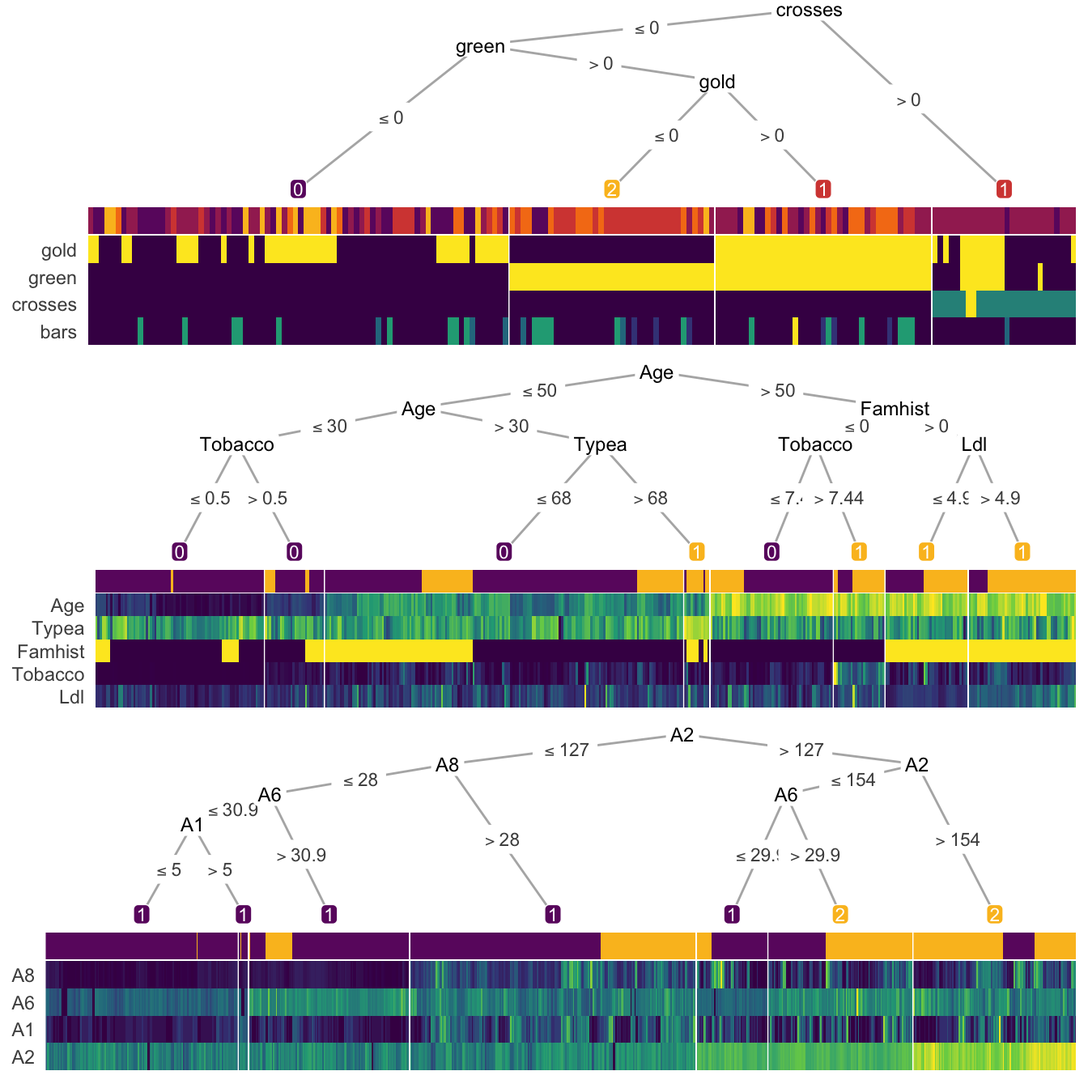
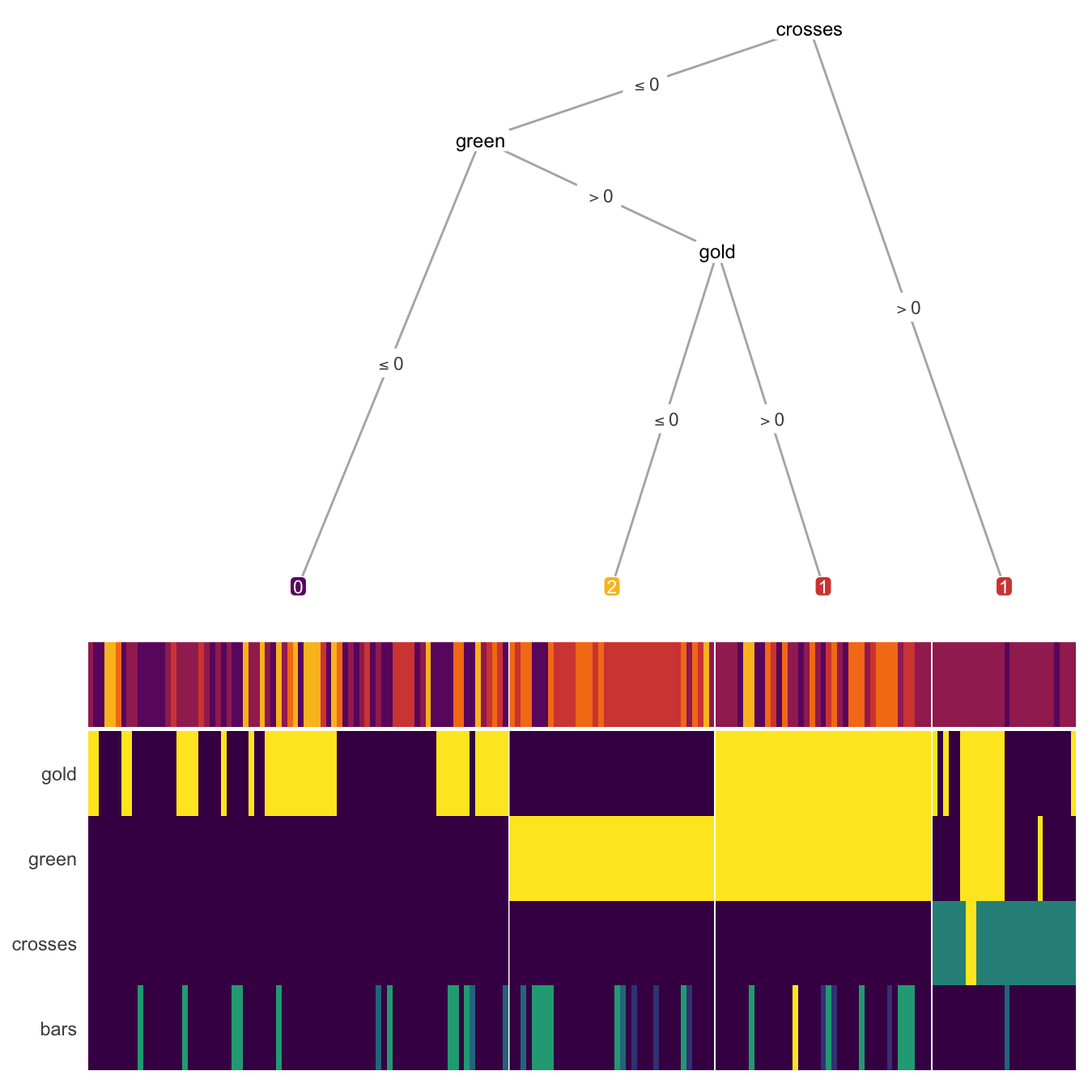
deploy: f9a4d122292717f82d7254e71221e574ecf3f56c

diff --git a/articles/explore.html b/articles/explore.html
@@ -85,7 +85,7 @@
 </h1>
                         <h4 class="author">Trang Le</h4>
             
-            <h4 class="date">2020-05-21</h4>
+            <h4 class="date">2020-05-22</h4>
       
       
       <div class="hidden name"><code>explore.Rmd</code></div>
@@ -103,20 +103,14 @@
 <a href="#lets-begin" class="anchor"></a>Let’s begin</h2>
 <p>with the iris dataset! Running the <code><a href="https://rdrr.io/pkg/treeheatr/man/heat_tree.html">heat_tree()</a></code> function can be as simple as:</p>
 <div class="sourceCode" id="cb2"><html><body><pre class="r"><span class="no">dat_raw</span> <span class="kw">&lt;-</span> <span class="no">iris</span>
-<span class="fu"><a href="https://rdrr.io/pkg/treeheatr/man/heat_tree.html">heat_tree</a></span>(<span class="no">dat_raw</span>, <span class="kw">target_lab</span> <span class="kw">=</span> <span class="st">'Species'</span>) <span class="kw">%&gt;%</span>
-  <span class="kw pkg">grid</span><span class="kw ns">::</span><span class="fu"><a href="https://rdrr.io/r/grid/grid.draw.html">grid.draw</a></span>()
-<span class="co">#&gt; Warning in `[&lt;-.factor`(`*tmp*`, list, value = 0): invalid factor level, NA</span>
-<span class="co">#&gt; generated</span></pre></body></html></div>
+<span class="fu"><a href="https://rdrr.io/pkg/treeheatr/man/heat_tree.html">heat_tree</a></span>(<span class="no">dat_raw</span>, <span class="kw">target_lab</span> <span class="kw">=</span> <span class="st">'Species'</span>)</pre></body></html></div>
 <p><img src="explore_files/figure-html/unnamed-chunk-2-1.png" width="480"></p>
 <p>But we can adjust a few graphical parameters. We can also add a custom layout for a subset of the nodes by specifying it in the <code>custom_layout</code> parameter. And we can relax the p value threshold <code>p_thres</code> to include more features that might be less important in classifying the samples but still included in the decision tree, or set <code>show_all_feats = TRUE</code> to include all features, even the ones that were not used to build the tree.</p>
 <div class="sourceCode" id="cb3"><html><body><pre class="r"><span class="fu"><a href="https://rdrr.io/pkg/treeheatr/man/heat_tree.html">heat_tree</a></span>(
   <span class="no">dat_raw</span>, <span class="kw">target_lab</span> <span class="kw">=</span> <span class="st">'Species'</span>,
   <span class="kw">target_cols</span> <span class="kw">=</span> <span class="fu">scale_fill_manual</span>(<span class="kw">values</span> <span class="kw">=</span> <span class="fu"><a href="https://rdrr.io/r/base/c.html">c</a></span>(<span class="st">"#E69F00"</span>, <span class="st">"#56B4E9"</span>, <span class="st">"#009E73"</span>)),
   <span class="kw">custom_layout</span> <span class="kw">=</span> <span class="fu"><a href="https://rdrr.io/r/base/data.frame.html">data.frame</a></span>(<span class="kw">id</span> <span class="kw">=</span> <span class="fl">1</span>, <span class="kw">x</span> <span class="kw">=</span> <span class="fl">0.1</span>, <span class="kw">y</span> <span class="kw">=</span> <span class="fl">1</span>), <span class="kw">show_all_feats</span> <span class="kw">=</span> <span class="fl">TRUE</span>,
-  <span class="kw">panel_space</span> <span class="kw">=</span> <span class="fl">0.05</span>, <span class="kw">target_space</span> <span class="kw">=</span> <span class="fl">0.2</span>, <span class="kw">tree_space_bottom</span> <span class="kw">=</span> <span class="fl">0.1</span>, <span class="kw">heat_rel_height</span> <span class="kw">=</span> <span class="fl">0.4</span>) <span class="kw">%&gt;%</span>
-  <span class="kw pkg">grid</span><span class="kw ns">::</span><span class="fu"><a href="https://rdrr.io/r/grid/grid.draw.html">grid.draw</a></span>()
-<span class="co">#&gt; Warning in `[&lt;-.factor`(`*tmp*`, list, value = 0): invalid factor level, NA</span>
-<span class="co">#&gt; generated</span></pre></body></html></div>
+  <span class="kw">panel_space</span> <span class="kw">=</span> <span class="fl">0.05</span>, <span class="kw">target_space</span> <span class="kw">=</span> <span class="fl">0.2</span>, <span class="kw">tree_space_bottom</span> <span class="kw">=</span> <span class="fl">0.1</span>, <span class="kw">heat_rel_height</span> <span class="kw">=</span> <span class="fl">0.4</span>)</pre></body></html></div>
 <p><img src="explore_files/figure-html/unnamed-chunk-3-1.png" width="672"></p>
 <p>We can also customize our heattree by passing parameters through to different <strong>ggparty</strong> geoms. These list parameters are named <code>*_vars</code>. For example:</p>
 <div class="sourceCode" id="cb4"><html><body><pre class="r"><span class="fu"><a href="https://rdrr.io/pkg/treeheatr/man/heat_tree.html">heat_tree</a></span>(
@@ -134,19 +128,13 @@
       <span class="fu"><a href="https://rdrr.io/r/base/list.html">list</a></span>(<span class="kw">size</span> <span class="kw">=</span> <span class="fl">6</span>)),
     <span class="kw">id</span> <span class="kw">=</span> <span class="st">'inner'</span>),
   <span class="kw">terminal_vars</span> <span class="kw">=</span> <span class="fu"><a href="https://rdrr.io/r/base/list.html">list</a></span>(<span class="kw">size</span> <span class="kw">=</span> <span class="fl">0</span>),
-  <span class="kw">edge_vars</span> <span class="kw">=</span> <span class="fu"><a href="https://rdrr.io/r/base/list.html">list</a></span>(<span class="kw">size</span> <span class="kw">=</span> <span class="fl">1</span>, <span class="kw">color</span> <span class="kw">=</span> <span class="st">'grey'</span>)) <span class="kw">%&gt;%</span>
-  <span class="kw pkg">grid</span><span class="kw ns">::</span><span class="fu"><a href="https://rdrr.io/r/grid/grid.draw.html">grid.draw</a></span>()
-<span class="co">#&gt; Warning in `[&lt;-.factor`(`*tmp*`, list, value = 0): invalid factor level, NA</span>
-<span class="co">#&gt; generated</span></pre></body></html></div>
+  <span class="kw">edge_vars</span> <span class="kw">=</span> <span class="fu"><a href="https://rdrr.io/r/base/list.html">list</a></span>(<span class="kw">size</span> <span class="kw">=</span> <span class="fl">1</span>, <span class="kw">color</span> <span class="kw">=</span> <span class="st">'grey'</span>))</pre></body></html></div>
 <p><img src="explore_files/figure-html/unnamed-chunk-4-1.png" width="672"></p>
 </div>
 <div id="some-more-examples" class="section level2">
 <h2 class="hasAnchor">
 <a href="#some-more-examples" class="anchor"></a>Some more examples</h2>
-<div class="sourceCode" id="cb5"><html><body><pre class="r"><span class="fu"><a href="https://rdrr.io/pkg/treeheatr/man/heat_tree.html">heat_tree</a></span>(<span class="no">wine</span>, <span class="kw">target_lab</span> <span class="kw">=</span> <span class="st">'Type'</span>, <span class="kw">target_lab_disp</span> <span class="kw">=</span> <span class="st">'Cultivar'</span>) <span class="kw">%&gt;%</span>
-  <span class="kw pkg">grid</span><span class="kw ns">::</span><span class="fu"><a href="https://rdrr.io/r/grid/grid.draw.html">grid.draw</a></span>()
-<span class="co">#&gt; Warning in `[&lt;-.factor`(`*tmp*`, list, value = 0): invalid factor level, NA</span>
-<span class="co">#&gt; generated</span></pre></body></html></div>
+<div class="sourceCode" id="cb5"><html><body><pre class="r"><span class="fu"><a href="https://rdrr.io/pkg/treeheatr/man/heat_tree.html">heat_tree</a></span>(<span class="no">wine</span>, <span class="kw">target_lab</span> <span class="kw">=</span> <span class="st">'Type'</span>, <span class="kw">target_lab_disp</span> <span class="kw">=</span> <span class="st">'Cultivar'</span>)</pre></body></html></div>
 <p><img src="explore_files/figure-html/unnamed-chunk-5-1.png" width="672"></p>
 <div class="sourceCode" id="cb6"><html><body><pre class="r"><span class="no">p</span> <span class="kw">&lt;-</span> <span class="fu"><a href="https://rdrr.io/r/base/lapply.html">lapply</a></span>(
   <span class="fu"><a href="https://rdrr.io/r/base/list.html">list</a></span>(<span class="no">flags</span>, <span class="no">saheart</span>, <span class="no">diabetes</span>),
@@ -154,28 +142,28 @@
   <span class="kw">target_lab</span> <span class="kw">=</span> <span class="st">'target'</span>,
   <span class="kw">target_lab_disp</span> <span class="kw">=</span> <span class="st">''</span>,
   <span class="kw">heat_rel_height</span> <span class="kw">=</span> <span class="fl">0.4</span>, <span class="kw">tree_space_bottom</span> <span class="kw">=</span> <span class="fl">0.1</span>,
-  <span class="kw">terminal_vars</span> <span class="kw">=</span> <span class="fu"><a href="https://rdrr.io/r/base/list.html">list</a></span>(<span class="kw">label.padding</span> <span class="kw">=</span> <span class="fu">unit</span>(<span class="fl">0.1</span>, <span class="st">"lines"</span>), <span class="kw">size</span> <span class="kw">=</span> <span class="fl">3</span>, <span class="kw">color</span> <span class="kw">=</span> <span class="st">'white'</span>))
-
+  <span class="kw">terminal_vars</span> <span class="kw">=</span> <span class="fu"><a href="https://rdrr.io/r/base/list.html">list</a></span>(<span class="kw">label.padding</span> <span class="kw">=</span> <span class="fu">unit</span>(<span class="fl">0.1</span>, <span class="st">"lines"</span>), <span class="kw">size</span> <span class="kw">=</span> <span class="fl">3</span>, <span class="kw">color</span> <span class="kw">=</span> <span class="st">'white'</span>))</pre></body></html></div>
+<p><img src="explore_files/figure-html/unnamed-chunk-6-1.png" width="672"><img src="explore_files/figure-html/unnamed-chunk-6-2.png" width="672"><img src="explore_files/figure-html/unnamed-chunk-6-3.png" width="672"></p>
+<div class="sourceCode" id="cb7"><html><body><pre class="r">
 <span class="kw pkg">cowplot</span><span class="kw ns">::</span><span class="fu"><a href="https://rdrr.io/pkg/cowplot/man/plot_grid.html">plot_grid</a></span>(<span class="kw">plotlist</span> <span class="kw">=</span> <span class="no">p</span>, <span class="kw">ncol</span> <span class="kw">=</span> <span class="fl">1</span>)</pre></body></html></div>
-<p><img src="explore_files/figure-html/unnamed-chunk-6-1.png" width="672"></p>
+<p><img src="explore_files/figure-html/unnamed-chunk-6-4.png" width="672"></p>
 </div>
 <div id="smart-node-layout" class="section level2">
 <h2 class="hasAnchor">
 <a href="#smart-node-layout" class="anchor"></a>Smart node layout</h2>
 <p>These extreme visualizations may not be very interpretable but serves the purpose of showing the ability to generalize of the node layout when the tree grows in size. The implemented smart layout weighs the x-position of the parent node according to the level of the child nodes as to avoid crossing of tree branches. This relative weight can be adjusted with the <code>lev_fac</code> parameter in <code><a href="https://rdrr.io/pkg/treeheatr/man/heat_tree.html">heat_tree()</a></code>. The default <code>lev_fac = 1.3</code> seems to provide aesthetically pleasing trees, independent of the tree size.</p>
-<div class="sourceCode" id="cb7"><html><body><pre class="r"><span class="co"># waveform has 5000 observations and 40 features</span>
+<div class="sourceCode" id="cb8"><html><body><pre class="r"><span class="co"># waveform has 5000 observations and 40 features</span>
 <span class="co"># so this computation may take up to a minute or two.</span>
 
-<span class="fu"><a href="https://rdrr.io/pkg/treeheatr/man/heat_tree.html">heat_tree</a></span>(<span class="no">waveform</span>, <span class="kw">target_lab</span> <span class="kw">=</span> <span class="st">'target'</span>, <span class="kw">heat_rel_height</span> <span class="kw">=</span> <span class="fl">0.35</span>) <span class="kw">%&gt;%</span>
-  <span class="kw pkg">grid</span><span class="kw ns">::</span><span class="fu"><a href="https://rdrr.io/r/grid/grid.draw.html">grid.draw</a></span>()</pre></body></html></div>
+<span class="fu"><a href="https://rdrr.io/pkg/treeheatr/man/heat_tree.html">heat_tree</a></span>(<span class="no">waveform</span>, <span class="kw">target_lab</span> <span class="kw">=</span> <span class="st">'target'</span>, <span class="kw">heat_rel_height</span> <span class="kw">=</span> <span class="fl">0.35</span>)</pre></body></html></div>
 <p><img src="explore_files/figure-html/unnamed-chunk-7-1.png" width="864"></p>
 <p>In this next figure, on the top, <code>lev_fac = 1</code> makes parent node perfectly in the middle of child nodes (note a few branch crossing), which contrasts <code>lev_fac = 1.3</code> (default) on the bottom.</p>
-<div class="sourceCode" id="cb8"><html><body><pre class="r"><span class="kw pkg">cowplot</span><span class="kw ns">::</span><span class="fu"><a href="https://rdrr.io/pkg/cowplot/man/plot_grid.html">plot_grid</a></span>(
+<div class="sourceCode" id="cb9"><html><body><pre class="r"><span class="kw pkg">cowplot</span><span class="kw ns">::</span><span class="fu"><a href="https://rdrr.io/pkg/cowplot/man/plot_grid.html">plot_grid</a></span>(
   <span class="fu"><a href="https://rdrr.io/pkg/treeheatr/man/heat_tree.html">heat_tree</a></span>(<span class="no">wine_quality_red</span>, <span class="kw">target_lab</span> <span class="kw">=</span> <span class="st">'target'</span>, <span class="kw">lev_fac</span> <span class="kw">=</span> <span class="fl">1</span>),
   <span class="fu"><a href="https://rdrr.io/pkg/treeheatr/man/heat_tree.html">heat_tree</a></span>(<span class="no">wine_quality_red</span>, <span class="kw">target_lab</span> <span class="kw">=</span> <span class="st">'target'</span>),
   <span class="kw">ncol</span> <span class="kw">=</span> <span class="fl">1</span>,
   <span class="kw">labels</span> <span class="kw">=</span> <span class="fu"><a href="https://rdrr.io/r/base/c.html">c</a></span>(<span class="st">'lev_fac = 1'</span>, <span class="st">'lev_fac = 1.3'</span>))</pre></body></html></div>
-<p><img src="explore_files/figure-html/unnamed-chunk-8-1.png" width="864"></p>
+<p><img src="explore_files/figure-html/unnamed-chunk-8-1.png" width="864"><img src="explore_files/figure-html/unnamed-chunk-8-2.png" width="864"><img src="explore_files/figure-html/unnamed-chunk-8-3.png" width="864"></p>
 </div>
 <div id="clustering" class="section level2">
 <h2 class="hasAnchor">
@@ -190,7 +178,7 @@
 <p><strong>treeheatr</strong> supports mixed data types.</p>
 <p>For continuous variables, we can choose to either <em>scale</em> (subtract the mean and divide by the standard deviation) or <em>normalize</em> (subtract the min and divide by the max) each variable. Depending on what we want to show in the heatmap, one transformation method can be more effective than the other. Details on the strengths and weaknesses of different types of data transformation for heatmap display can be found in <a href="https://cran.r-project.org/package=heatmaply/vignettes/heatmaply.html#data-transformation-scaling-normalize-and-percentize">this vignette</a> of the <strong>heatmaply</strong> package.</p>
 <p>Let’s take a closer look at how it handles a dataset like Titanic with categorical variables (<code>Class</code>, <code>Sex</code>, <code>Embarked</code>) and continuous variables (others). We <strong>highly recommend</strong> that, when dealing with mixed data types, the user supply <code>feat_types</code> to indicate whether a feature should be considered ‘numeric’ (continuous) or ‘factor’ (categorical) as shown below. When <code>feat_types</code> is not specified, <strong>treeheatr</strong> automatically inferred each column type from the original dataset.</p>
-<div class="sourceCode" id="cb9"><html><body><pre class="r"><span class="no">dat_raw</span> <span class="kw">&lt;-</span> <span class="no">titanic</span> <span class="kw">%&gt;%</span>
+<div class="sourceCode" id="cb10"><html><body><pre class="r"><span class="no">dat_raw</span> <span class="kw">&lt;-</span> <span class="no">titanic</span> <span class="kw">%&gt;%</span>
   <span class="kw pkg">dplyr</span><span class="kw ns">::</span><span class="fu"><a href="https://dplyr.tidyverse.org/reference/select.html">select</a></span>(<span class="no">Survived</span>, <span class="no">Sex</span>, <span class="no">Pclass</span>, <span class="no">Age</span>, <span class="no">SibSp</span>, <span class="no">Parch</span>, <span class="no">Fare</span>, <span class="no">Embarked</span>)
 
 <span class="fu"><a href="https://rdrr.io/pkg/treeheatr/man/heat_tree.html">heat_tree</a></span>(
@@ -203,29 +191,25 @@
                  <span class="kw">SibSp</span> <span class="kw">=</span> <span class="st">'numeric'</span>,
                  <span class="kw">Parch</span> <span class="kw">=</span> <span class="st">'numeric'</span>,
                  <span class="kw">Fare</span> <span class="kw">=</span> <span class="st">'numeric'</span>,
-                 <span class="kw">Embarked</span> <span class="kw">=</span> <span class="st">'factor'</span>)) <span class="kw">%&gt;%</span>
-  <span class="kw pkg">grid</span><span class="kw ns">::</span><span class="fu"><a href="https://rdrr.io/r/grid/grid.draw.html">grid.draw</a></span>()
+                 <span class="kw">Embarked</span> <span class="kw">=</span> <span class="st">'factor'</span>))
 <span class="co">#&gt; Warning in cluster::daisy(., metric = "gower"): binary variable(s) 2 treated as</span>
 <span class="co">#&gt; interval scaled</span>
 
 <span class="co">#&gt; Warning in cluster::daisy(., metric = "gower"): binary variable(s) 2 treated as</span>
 <span class="co">#&gt; interval scaled</span>
 <span class="co">#&gt; Warning in cluster::daisy(., metric = "gower"): binary variable(s) 4 treated as</span>
-<span class="co">#&gt; interval scaled</span>
-<span class="co">#&gt; Warning in `[&lt;-.factor`(`*tmp*`, list, value = 0): invalid factor level, NA</span>
-<span class="co">#&gt; generated</span></pre></body></html></div>
+<span class="co">#&gt; interval scaled</span></pre></body></html></div>
 <p><img src="explore_files/figure-html/unnamed-chunk-9-1.png" width="864"></p>
 </div>
 <div id="regression" class="section level2">
 <h2 class="hasAnchor">
 <a href="#regression" class="anchor"></a>Regression</h2>
 <p>In general, compared to classification, regression task is more difficult to interpret with a decision tree. However, a heatmap may shed some light on how the tree groups the samples in different terminal nodes. Also, removing the terminal node label may show the groups better. Here are a few examples:</p>
-<div class="sourceCode" id="cb10"><html><body><pre class="r"><span class="fu"><a href="https://rdrr.io/pkg/treeheatr/man/heat_tree.html">heat_tree</a></span>(<span class="kw">data</span> <span class="kw">=</span> <span class="no">galaxy</span>,
+<div class="sourceCode" id="cb11"><html><body><pre class="r"><span class="fu"><a href="https://rdrr.io/pkg/treeheatr/man/heat_tree.html">heat_tree</a></span>(<span class="kw">data</span> <span class="kw">=</span> <span class="no">galaxy</span>,
           <span class="kw">target_lab</span> <span class="kw">=</span> <span class="st">'target'</span>,
           <span class="kw">task</span> <span class="kw">=</span> <span class="st">'regression'</span>,
           <span class="kw">terminal_vars</span> <span class="kw">=</span> <span class="kw">NULL</span>,
-          <span class="kw">tree_space_bottom</span> <span class="kw">=</span> <span class="fl">0</span>) <span class="kw">%&gt;%</span>
-  <span class="kw pkg">grid</span><span class="kw ns">::</span><span class="fu"><a href="https://rdrr.io/r/grid/grid.draw.html">grid.draw</a></span>()
+          <span class="kw">tree_space_bottom</span> <span class="kw">=</span> <span class="fl">0</span>)
 <span class="co">#&gt; Warning in cluster::daisy(., metric = "gower"): binary variable(s) 3 treated as</span>
 <span class="co">#&gt; interval scaled</span>
 
@@ -233,10 +217,9 @@
 <span class="co">#&gt; interval scaled</span></pre></body></html></div>
 <p><img src="explore_files/figure-html/unnamed-chunk-10-1.png" width="672"></p>
 <p>For illustration purposes, we’re only showing the top 300 samples of the <em>pollen</em> dataset below.</p>
-<div class="sourceCode" id="cb11"><html><body><pre class="r"><span class="fu"><a href="https://rdrr.io/pkg/treeheatr/man/heat_tree.html">heat_tree</a></span>(<span class="kw">data</span> <span class="kw">=</span> <span class="no">pollen</span>[<span class="fl">1</span>:<span class="fl">300</span>, ],
+<div class="sourceCode" id="cb12"><html><body><pre class="r"><span class="fu"><a href="https://rdrr.io/pkg/treeheatr/man/heat_tree.html">heat_tree</a></span>(<span class="kw">data</span> <span class="kw">=</span> <span class="no">pollen</span>[<span class="fl">1</span>:<span class="fl">300</span>, ],
           <span class="kw">target_lab</span> <span class="kw">=</span> <span class="st">'target'</span>,
-          <span class="kw">task</span> <span class="kw">=</span> <span class="st">'regression'</span>) <span class="kw">%&gt;%</span>
-  <span class="kw pkg">grid</span><span class="kw ns">::</span><span class="fu"><a href="https://rdrr.io/r/grid/grid.draw.html">grid.draw</a></span>()</pre></body></html></div>
+          <span class="kw">task</span> <span class="kw">=</span> <span class="st">'regression'</span>)</pre></body></html></div>
 <p><img src="explore_files/figure-html/unnamed-chunk-11-1.png" width="672"></p>
 </div>
   </div>

diff --git a/reference/heat_tree.html b/reference/heat_tree.html
@@ -349,83 +349,13 @@ If NULL, use `target_lab`.</p></td>
     <p>A gtable/grob object of the decision tree (top) and heatmap (bottom).</p>
 
     <h2 class="hasAnchor" id="examples"><a class="anchor" href="#examples"></a>Examples</h2>
-    <pre class="examples"><div class='input'><span class='fu'>heat_tree</span>(<span class='no'>iris</span>, <span class='st'>'Species'</span>)</div><div class='output co'>#&gt; <span class='warning'>Warning: invalid factor level, NA generated</span></div><div class='output co'>#&gt; TableGrob (14 x 15) "layout": 28 grobs
-#&gt;     z         cells       name                                    grob
-#&gt; 1   0 ( 2-14, 1-15) background zeroGrob[plot.background..zeroGrob.121]
-#&gt; 2   1 ( 9- 9, 5- 5)  panel-1-1                 gTree[panel-1.gTree.36]
-#&gt; 3   1 ( 9- 9, 7- 7)  panel-2-1                 gTree[panel-2.gTree.46]
-#&gt; 4   1 ( 9- 9, 9- 9)  panel-3-1                 gTree[panel-3.gTree.56]
-#&gt; 5   1 ( 9- 9,11-11)  panel-4-1                 gTree[panel-4.gTree.66]
-#&gt; 6   3 ( 7- 7, 5- 5)   axis-t-1                          zeroGrob[NULL]
-#&gt; 7   3 ( 7- 7, 7- 7)   axis-t-2                          zeroGrob[NULL]
-#&gt; 8   3 ( 7- 7, 9- 9)   axis-t-3                          zeroGrob[NULL]
-#&gt; 9   3 ( 7- 7,11-11)   axis-t-4                          zeroGrob[NULL]
-#&gt; 10  3 (10-10, 5- 5)   axis-b-1      absoluteGrob[GRID.absoluteGrob.67]
-#&gt; 11  3 (10-10, 7- 7)   axis-b-2      absoluteGrob[GRID.absoluteGrob.68]
-#&gt; 12  3 (10-10, 9- 9)   axis-b-3      absoluteGrob[GRID.absoluteGrob.69]
-#&gt; 13  3 (10-10,11-11)   axis-b-4      absoluteGrob[GRID.absoluteGrob.70]
-#&gt; 14  3 ( 9- 9, 4- 4)   axis-l-1      absoluteGrob[GRID.absoluteGrob.74]
-#&gt; 15  3 ( 9- 9,12-12)   axis-r-1                          zeroGrob[NULL]
-#&gt; 16  2 ( 8- 8, 5- 5)  strip-t-1 zeroGrob[strip.text.x.top..zeroGrob.75]
-#&gt; 17  2 ( 8- 8, 7- 7)  strip-t-2 zeroGrob[strip.text.x.top..zeroGrob.76]
-#&gt; 18  2 ( 8- 8, 9- 9)  strip-t-3 zeroGrob[strip.text.x.top..zeroGrob.77]
-#&gt; 19  2 ( 8- 8,11-11)  strip-t-4 zeroGrob[strip.text.x.top..zeroGrob.78]
-#&gt; 20  4 ( 6- 6, 5-11)     xlab-t                          zeroGrob[NULL]
-#&gt; 21  5 (11-11, 5-11)     xlab-b                          zeroGrob[NULL]
-#&gt; 22  6 ( 9- 9, 3- 3)     ylab-l                          zeroGrob[NULL]
-#&gt; 23  7 ( 9- 9,13-13)     ylab-r                          zeroGrob[NULL]
-#&gt; 24  8 ( 5- 5, 5-11)   subtitle   zeroGrob[plot.subtitle..zeroGrob.118]
-#&gt; 25  9 ( 4- 4, 5-11)      title      zeroGrob[plot.title..zeroGrob.117]
-#&gt; 26 10 (12-12, 5-11)    caption    zeroGrob[plot.caption..zeroGrob.120]
-#&gt; 27 11 ( 3- 3, 2- 2)        tag        zeroGrob[plot.tag..zeroGrob.119]
-#&gt; 28 12 ( 1- 1, 5-11)     layout                          gtable[layout]</div><div class='input'>
+    <pre class="examples"><div class='input'><span class='fu'>heat_tree</span>(<span class='no'>iris</span>, <span class='st'>'Species'</span>)</div><div class='img'><img src='heat_tree-1.png' alt='' width='700' height='433' /></div><div class='input'>
 <span class='fu'>heat_tree</span>(
   <span class='kw'>data</span> <span class='kw'>=</span> <span class='no'>galaxy</span>[<span class='fl'>1</span>:<span class='fl'>100</span>, ],
   <span class='kw'>target_lab</span> <span class='kw'>=</span> <span class='st'>'target'</span>,
   <span class='kw'>task</span> <span class='kw'>=</span> <span class='st'>'regression'</span>,
   <span class='kw'>terminal_vars</span> <span class='kw'>=</span> <span class='kw'>NULL</span>,
-  <span class='kw'>tree_space_bottom</span> <span class='kw'>=</span> <span class='fl'>0</span>)</div><div class='output co'>#&gt; <span class='warning'>Warning: binary variable(s) 3 treated as interval scaled</span></div><div class='output co'>#&gt; TableGrob (14 x 21) "layout": 40 grobs
-#&gt;     z         cells       name                                     grob
-#&gt; 1   0 ( 2-14, 1-21) background  zeroGrob[plot.background..zeroGrob.306]
-#&gt; 2   1 ( 9- 9, 5- 5)  panel-1-1                 gTree[panel-1.gTree.197]
-#&gt; 3   1 ( 9- 9, 7- 7)  panel-2-1                 gTree[panel-2.gTree.207]
-#&gt; 4   1 ( 9- 9, 9- 9)  panel-3-1                 gTree[panel-3.gTree.217]
-#&gt; 5   1 ( 9- 9,11-11)  panel-4-1                 gTree[panel-4.gTree.227]
-#&gt; 6   1 ( 9- 9,13-13)  panel-5-1                 gTree[panel-5.gTree.237]
-#&gt; 7   1 ( 9- 9,15-15)  panel-6-1                 gTree[panel-6.gTree.247]
-#&gt; 8   1 ( 9- 9,17-17)  panel-7-1                 gTree[panel-7.gTree.257]
-#&gt; 9   3 ( 7- 7, 5- 5)   axis-t-1                           zeroGrob[NULL]
-#&gt; 10  3 ( 7- 7, 7- 7)   axis-t-2                           zeroGrob[NULL]
-#&gt; 11  3 ( 7- 7, 9- 9)   axis-t-3                           zeroGrob[NULL]
-#&gt; 12  3 ( 7- 7,11-11)   axis-t-4                           zeroGrob[NULL]
-#&gt; 13  3 ( 7- 7,13-13)   axis-t-5                           zeroGrob[NULL]
-#&gt; 14  3 ( 7- 7,15-15)   axis-t-6                           zeroGrob[NULL]
-#&gt; 15  3 ( 7- 7,17-17)   axis-t-7                           zeroGrob[NULL]
-#&gt; 16  3 (10-10, 5- 5)   axis-b-1      absoluteGrob[GRID.absoluteGrob.258]
-#&gt; 17  3 (10-10, 7- 7)   axis-b-2      absoluteGrob[GRID.absoluteGrob.259]
-#&gt; 18  3 (10-10, 9- 9)   axis-b-3      absoluteGrob[GRID.absoluteGrob.260]
-#&gt; 19  3 (10-10,11-11)   axis-b-4      absoluteGrob[GRID.absoluteGrob.261]
-#&gt; 20  3 (10-10,13-13)   axis-b-5      absoluteGrob[GRID.absoluteGrob.262]
-#&gt; 21  3 (10-10,15-15)   axis-b-6      absoluteGrob[GRID.absoluteGrob.263]
-#&gt; 22  3 (10-10,17-17)   axis-b-7      absoluteGrob[GRID.absoluteGrob.264]
-#&gt; 23  3 ( 9- 9, 4- 4)   axis-l-1      absoluteGrob[GRID.absoluteGrob.267]
-#&gt; 24  3 ( 9- 9,18-18)   axis-r-1                           zeroGrob[NULL]
-#&gt; 25  2 ( 8- 8, 5- 5)  strip-t-1 zeroGrob[strip.text.x.top..zeroGrob.268]
-#&gt; 26  2 ( 8- 8, 7- 7)  strip-t-2 zeroGrob[strip.text.x.top..zeroGrob.269]
-#&gt; 27  2 ( 8- 8, 9- 9)  strip-t-3 zeroGrob[strip.text.x.top..zeroGrob.270]
-#&gt; 28  2 ( 8- 8,11-11)  strip-t-4 zeroGrob[strip.text.x.top..zeroGrob.271]
-#&gt; 29  2 ( 8- 8,13-13)  strip-t-5 zeroGrob[strip.text.x.top..zeroGrob.272]
-#&gt; 30  2 ( 8- 8,15-15)  strip-t-6 zeroGrob[strip.text.x.top..zeroGrob.273]
-#&gt; 31  2 ( 8- 8,17-17)  strip-t-7 zeroGrob[strip.text.x.top..zeroGrob.274]
-#&gt; 32  4 ( 6- 6, 5-17)     xlab-t                           zeroGrob[NULL]
-#&gt; 33  5 (11-11, 5-17)     xlab-b                           zeroGrob[NULL]
-#&gt; 34  6 ( 9- 9, 3- 3)     ylab-l                           zeroGrob[NULL]
-#&gt; 35  7 ( 9- 9,19-19)     ylab-r                           zeroGrob[NULL]
-#&gt; 36  8 ( 5- 5, 5-17)   subtitle    zeroGrob[plot.subtitle..zeroGrob.303]
-#&gt; 37  9 ( 4- 4, 5-17)      title       zeroGrob[plot.title..zeroGrob.302]
-#&gt; 38 10 (12-12, 5-17)    caption     zeroGrob[plot.caption..zeroGrob.305]
-#&gt; 39 11 ( 3- 3, 2- 2)        tag         zeroGrob[plot.tag..zeroGrob.304]
-#&gt; 40 12 ( 1- 1, 5-17)     layout                           gtable[layout]</div><div class='input'>
+  <span class='kw'>tree_space_bottom</span> <span class='kw'>=</span> <span class='fl'>0</span>)</div><div class='output co'>#&gt; <span class='warning'>Warning: binary variable(s) 3 treated as interval scaled</span></div><div class='img'><img src='heat_tree-2.png' alt='' width='700' height='433' /></div><div class='input'>
 </div></pre>
   </div>
   <div class="col-md-3 hidden-xs hidden-sm" id="pkgdown-sidebar">

diff --git a/reference/term_node_pos.html b/reference/term_node_pos.html
@@ -6,7 +6,7 @@
 <meta http-equiv="X-UA-Compatible" content="IE=edge">
 <meta name="viewport" content="width=device-width, initial-scale=1.0">
 
-<title>Apply the predicted tree on either new test data or training data. — prediction_df • treeheatr</title>
+<title>Determines terminal node position. — term_node_pos • treeheatr</title>
 
 
 <!-- jquery -->
@@ -39,9 +39,9 @@
 
 
 
-<meta property="og:title" content="Apply the predicted tree on either new test data or training data. — prediction_df" />
-<meta property="og:description" content="Select features with p-value (computed from decision tree) &amp;lt; `p_thres`
-or all features if `show_all_feats == TRUE`." />
+<meta property="og:title" content="Determines terminal node position. — term_node_pos" />
+<meta property="og:description" content="Create node layout using a bottom-up approach (literally) and
+overwrites ggarpty-precomputed positions in plot_data." />
 <meta property="og:image" content="https://trang1618.github.io/treeheatr/reference/figures/card.png" />
 <meta property="og:image:alt" content="treeheatr" />
 <meta name="twitter:card" content="summary_large_image" />
@@ -123,50 +123,35 @@ or all features if `show_all_feats == TRUE`." />
 <div class="row">
   <div class="col-md-9 contents">
     <div class="page-header">
-    <h1>Apply the predicted tree on either new test data or training data.</h1>
+    <h1>Determines terminal node position.</h1>
     
-    <div class="hidden name"><code>prediction_df.Rd</code></div>
+    <div class="hidden name"><code>term_node_pos.Rd</code></div>
     </div>
 
     <div class="ref-description">
-    <p>Select features with p-value (computed from decision tree) &lt; `p_thres`
-or all features if `show_all_feats == TRUE`.</p>
+    <p>Create node layout using a bottom-up approach (literally) and
+overwrites ggarpty-precomputed positions in plot_data.</p>
     </div>
 
-    <pre class="usage"><span class='fu'>prediction_df</span>(<span class='no'>fit</span>, <span class='no'>dat</span>, <span class='no'>data_test</span>, <span class='no'>task</span>, <span class='no'>feat_names</span>, <span class='no'>clust_samps</span>, <span class='no'>clust_target</span>)</pre>
+    <pre class="usage"><span class='fu'>term_node_pos</span>(<span class='no'>plot_data</span>, <span class='no'>scaled_dat</span>)</pre>
 
     <h2 class="hasAnchor" id="arguments"><a class="anchor" href="#arguments"></a>Arguments</h2>
     <table class="ref-arguments">
     <colgroup><col class="name" /><col class="desc" /></colgroup>
     <tr>
-      <th>fit</th>
-      <td><p>constparty object of the decision tree.</p></td>
+      <th>plot_data</th>
+      <td><p>Dataframe output of `ggparty:::get_plot_data()`.</p></td>
     </tr>
     <tr>
-      <th>data_test</th>
-      <td><p>Tidy test dataset. If NULL, heatmap displays (training) `data`.</p></td>
-    </tr>
-    <tr>
-      <th>task</th>
-      <td><p>Character string indicating the type of problem,
-either 'classification' (categorical outcome) or 'regression' (continuous outcome).</p></td>
-    </tr>
-    <tr>
-      <th>clust_samps</th>
-      <td><p>Logical. If TRUE, hierarhical clustering would be performed
-among samples within each leaf node.</p></td>
-    </tr>
-    <tr>
-      <th>clust_target</th>
-      <td><p>Logical. If TRUE, target/label is included in hierarchical clustering
-of samples within each leaf node and might yield a more interpretable heatmap.</p></td>
+      <th>scaled_dat</th>
+      <td><p>Dataframe of prediction values with scaled columns
+and clustered samples.</p></td>
     </tr>
     </table>
 
     <h2 class="hasAnchor" id="value"><a class="anchor" href="#value"></a>Value</h2>
 
-    <p>A dataframe of prediction values with scaled columns
-and clustered samples.</p>
+    <p>Dataframe with terminal node information.</p>
 
   </div>
   <div class="col-md-3 hidden-xs hidden-sm" id="pkgdown-sidebar">

diff --git a/index.html b/index.html
@@ -108,18 +108,14 @@
 <p>Classification of different types of iris plants.</p>
 <div class="sourceCode" id="cb2"><pre class="r"><span class="fu"><a href="https://rdrr.io/r/base/library.html">library</a></span>(<span class="no">treeheatr</span>)
 
-<span class="fu">grid.draw</span>(<span class="fu"><a href="https://rdrr.io/pkg/treeheatr/man/heat_tree.html">heat_tree</a></span>(<span class="no">iris</span>, <span class="kw">target_lab</span> <span class="kw">=</span> <span class="st">'Species'</span>))</pre></div>
-<div class="sourceCode" id="cb3"><pre class="sourceCode R"><code class="sourceCode r"><span id="cb3-1"><a href="#cb3-1"></a><span class="co">## Warning in `[&lt;-.factor`(`*tmp*`, list, value = 0): invalid factor level, NA</span></span>
-<span id="cb3-2"><a href="#cb3-2"></a><span class="co">## generated</span></span></code></pre></div>
+<span class="fu"><a href="https://rdrr.io/pkg/treeheatr/man/heat_tree.html">heat_tree</a></span>(<span class="no">iris</span>, <span class="kw">target_lab</span> <span class="kw">=</span> <span class="st">'Species'</span>)</pre></div>
 <p><img src="reference/figures/unnamed-chunk-3-1.png"><!-- --></p>
 </div>
 <div id="wine-recognition-dataset" class="section level3">
 <h3 class="hasAnchor">
 <a href="#wine-recognition-dataset" class="anchor"></a>Wine recognition dataset</h3>
 <p>Classification of different cultivars of wine.</p>
-<div class="sourceCode" id="cb4"><pre class="r"><span class="fu">grid.draw</span>(<span class="fu"><a href="https://rdrr.io/pkg/treeheatr/man/heat_tree.html">heat_tree</a></span>(<span class="no">wine</span>, <span class="kw">target_lab</span> <span class="kw">=</span> <span class="st">'Type'</span>, <span class="kw">target_lab_disp</span> <span class="kw">=</span> <span class="st">'Cultivar'</span>))</pre></div>
-<div class="sourceCode" id="cb5"><pre class="sourceCode R"><code class="sourceCode r"><span id="cb5-1"><a href="#cb5-1"></a><span class="co">## Warning in `[&lt;-.factor`(`*tmp*`, list, value = 0): invalid factor level, NA</span></span>
-<span id="cb5-2"><a href="#cb5-2"></a><span class="co">## generated</span></span></code></pre></div>
+<div class="sourceCode" id="cb3"><pre class="r"><span class="fu"><a href="https://rdrr.io/pkg/treeheatr/man/heat_tree.html">heat_tree</a></span>(<span class="no">wine</span>, <span class="kw">target_lab</span> <span class="kw">=</span> <span class="st">'Type'</span>, <span class="kw">target_lab_disp</span> <span class="kw">=</span> <span class="st">'Cultivar'</span>)</pre></div>
 <p><img src="reference/figures/unnamed-chunk-4-1.png"><!-- --></p>
 </div>
 </div>
